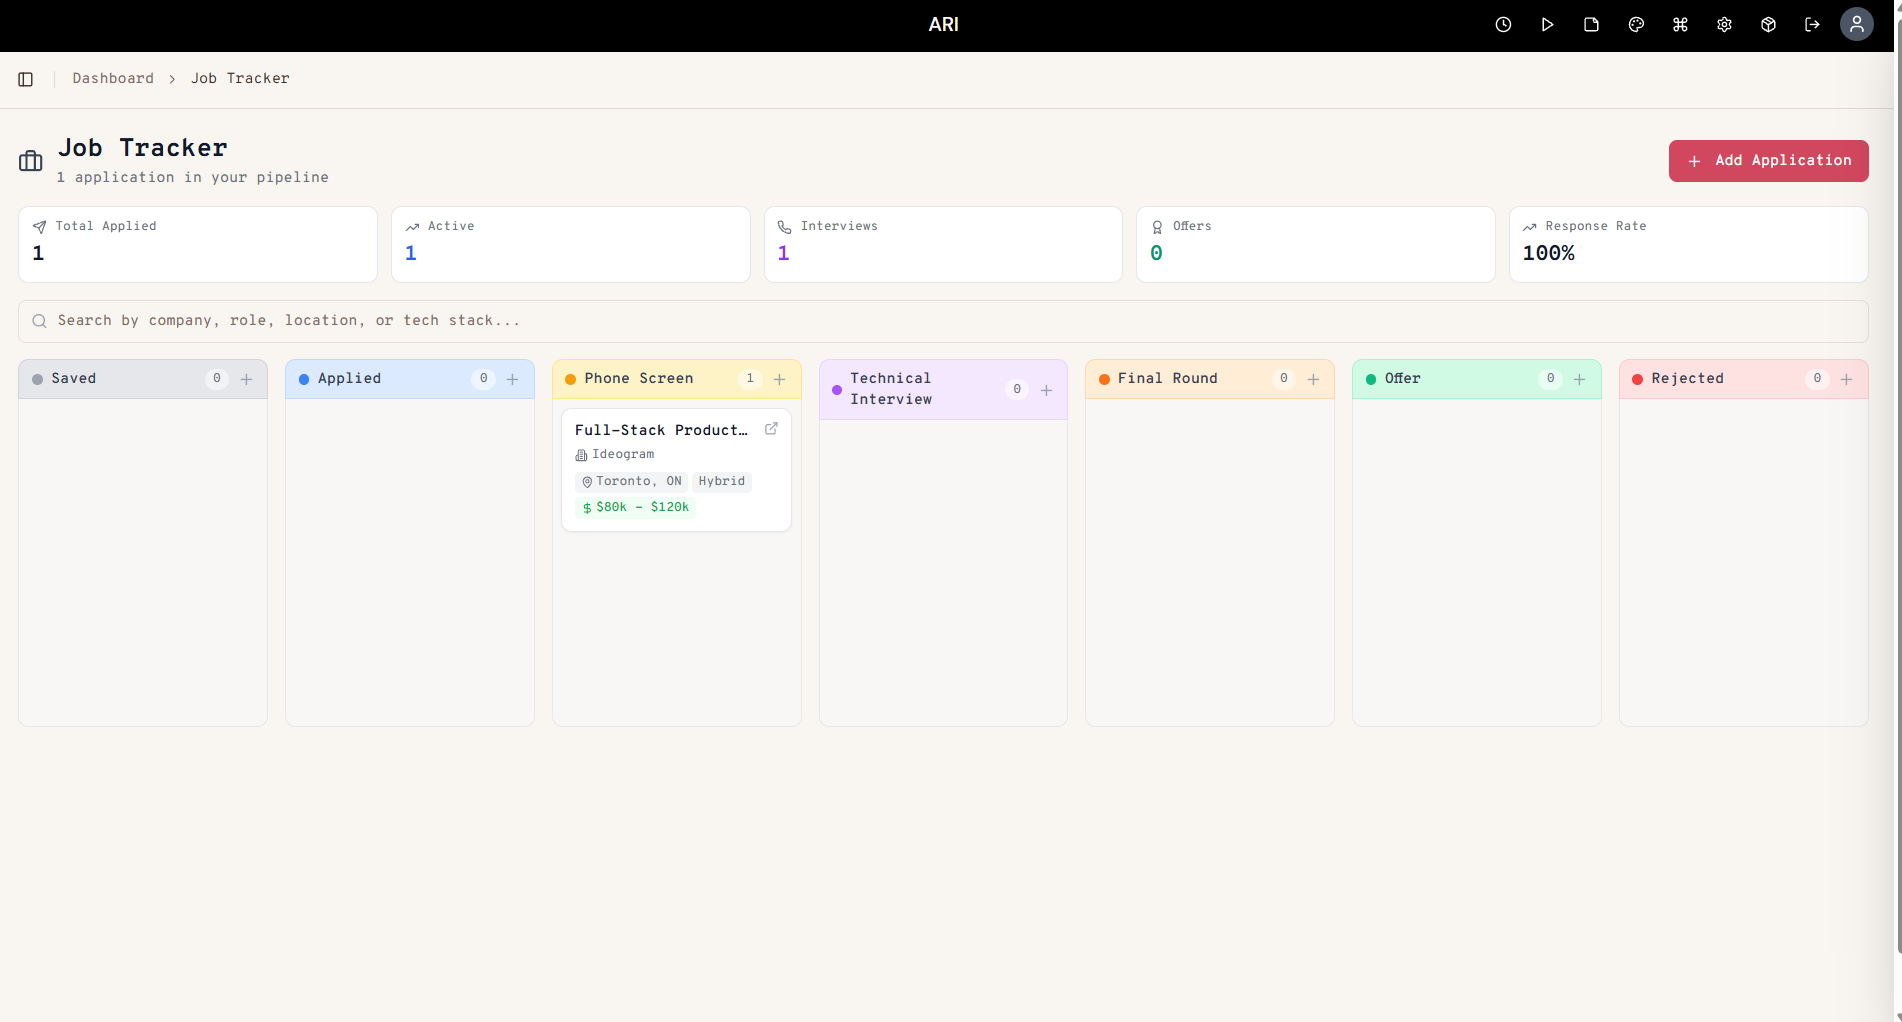
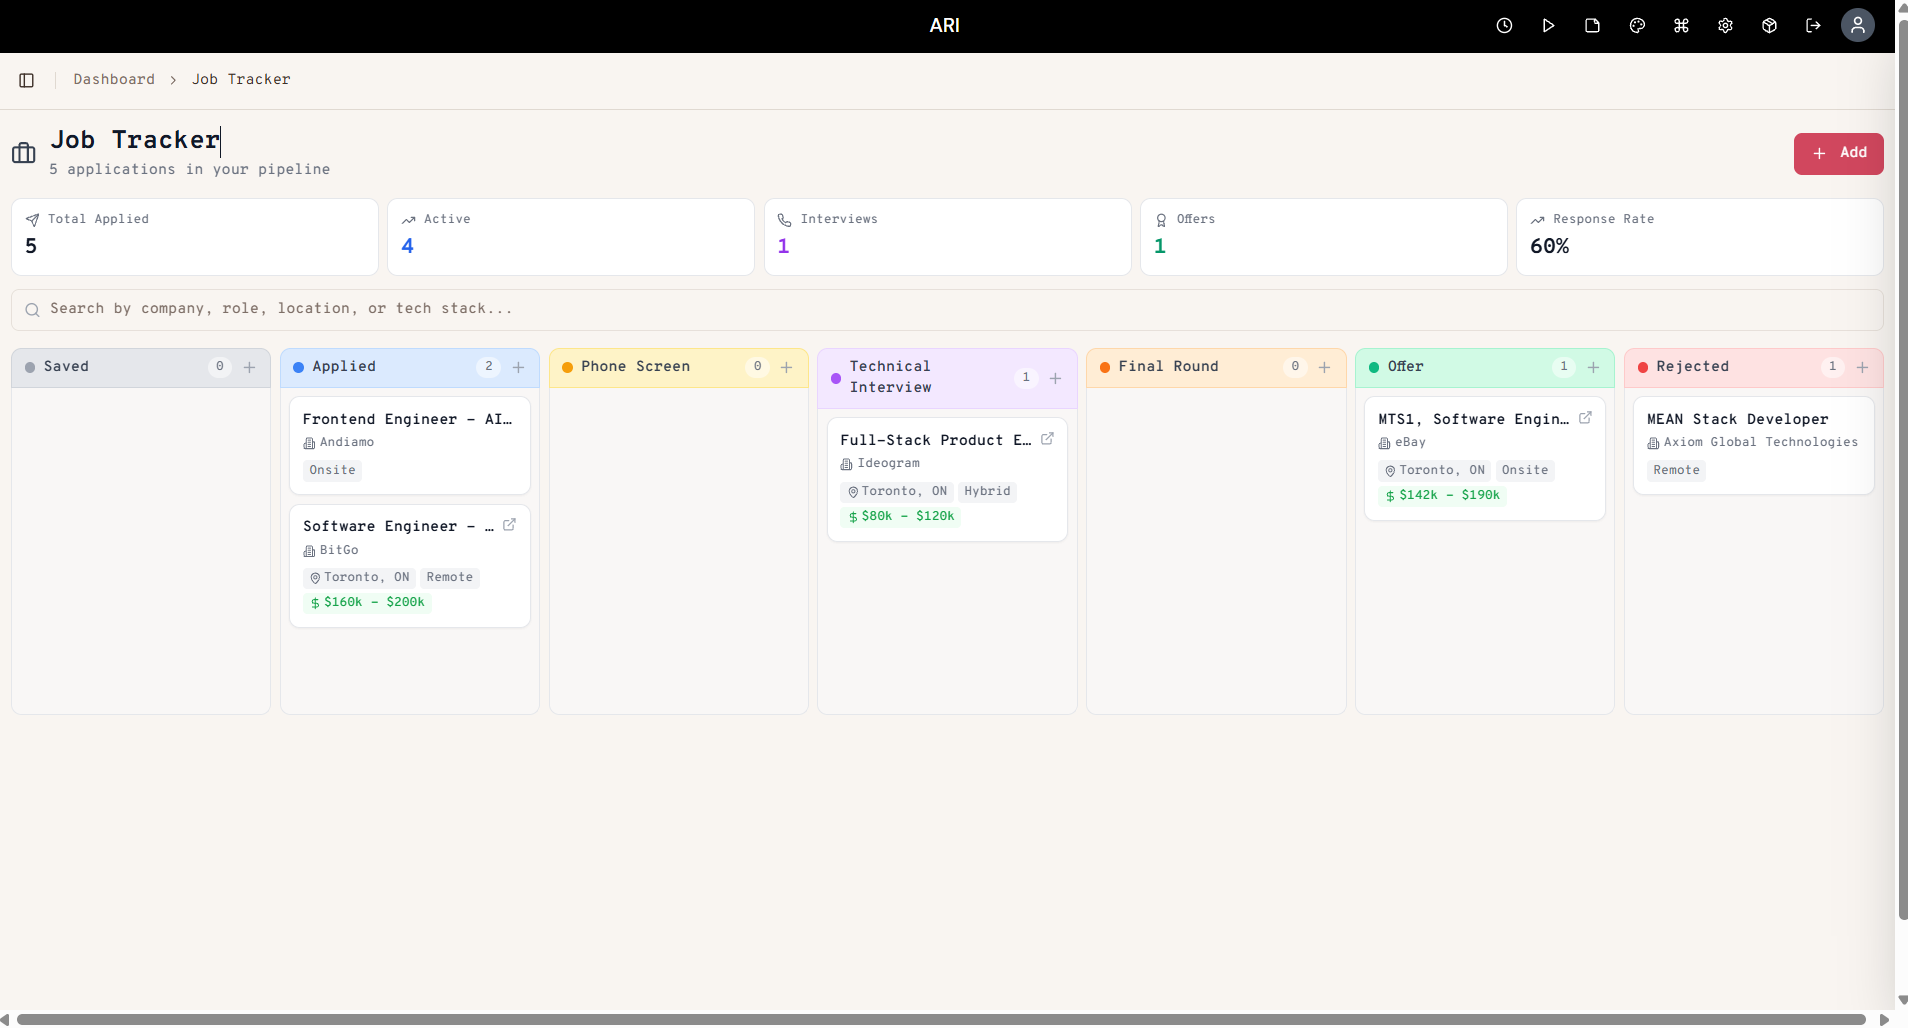
feat: add stats bar, search, colored columns, dashboard widget, demo data, layout fixes

diff --git a/app/page.tsx b/app/page.tsx
@@ -3,7 +3,7 @@
 import { useState, useEffect, useCallback, useMemo } from "react"
 import { useAuth } from "@/components/providers"
 import { useToast } from "@/hooks/use-toast"
-import { Briefcase, Plus, Search, TrendingUp, Send, Phone, Award, X } from "lucide-react"
+import { Briefcase, Plus, Search, TrendingUp, Send, Phone, Award, X, Zap } from "lucide-react"
 import { Button } from "@/components/ui/button"
 import { Input } from "@/components/ui/input"
 import { KanbanBoard } from "../components/kanban-board"
@@ -139,6 +139,41 @@ export default function JobTrackerPage() {
     setModalOpen(true)
   }
 
+  const DEMO_DATA = [
+    { company: 'Google', role: 'Software Engineer L4', status: 'technical_interview', salary_min: 150000, salary_max: 220000, location: 'Mountain View, CA', work_mode: 'hybrid', tech_stack: ['Go', 'Python', 'Kubernetes'], url: 'https://careers.google.com', contact_person: 'Sarah Chen (recruiter)', date_applied: '2026-05-10', notes: 'Passed phone screen. System design round next week.' },
+    { company: 'Shopify', role: 'Senior Frontend Developer', status: 'phone_screen', salary_min: 130000, salary_max: 170000, location: 'Toronto, ON', work_mode: 'remote', tech_stack: ['React', 'TypeScript', 'GraphQL'], url: 'https://shopify.com/careers', contact_person: 'Mike Ross (hiring manager)', date_applied: '2026-05-15', notes: 'Referral from a friend. Phone screen scheduled for Friday.' },
+    { company: 'Stripe', role: 'Full-Stack Engineer', status: 'applied', salary_min: 160000, salary_max: 200000, location: 'San Francisco, CA', work_mode: 'hybrid', tech_stack: ['Ruby', 'React', 'PostgreSQL'], url: 'https://stripe.com/jobs', date_applied: '2026-05-20' },
+    { company: 'Vercel', role: 'Software Engineer', status: 'offer', salary_min: 140000, salary_max: 180000, location: 'Remote', work_mode: 'remote', tech_stack: ['Next.js', 'TypeScript', 'Node.js'], contact_person: 'Lisa Park (recruiter)', date_applied: '2026-04-28', notes: 'Offer received! $165k base + equity. Decision deadline June 5.' },
+    { company: 'Netflix', role: 'UI Engineer', status: 'final_round', salary_min: 180000, salary_max: 250000, location: 'Los Gatos, CA', work_mode: 'onsite', tech_stack: ['React', 'Node.js', 'Java'], url: 'https://jobs.netflix.com', date_applied: '2026-05-05', notes: 'Final round with VP of Engineering on Monday.' },
+    { company: 'Coinbase', role: 'Backend Engineer', status: 'rejected', salary_min: 140000, salary_max: 190000, location: 'Remote', work_mode: 'remote', tech_stack: ['Go', 'PostgreSQL', 'AWS'], date_applied: '2026-05-01', notes: 'Rejected after technical interview. Feedback: needed more distributed systems experience.' },
+    { company: 'Figma', role: 'Product Engineer', status: 'applied', salary_min: 150000, salary_max: 200000, location: 'San Francisco, CA', work_mode: 'hybrid', tech_stack: ['TypeScript', 'C++', 'WebGL'], url: 'https://figma.com/careers', date_applied: '2026-05-22' },
+    { company: 'Datadog', role: 'Software Engineer', status: 'saved', salary_min: 130000, salary_max: 175000, location: 'New York, NY', work_mode: 'hybrid', tech_stack: ['Go', 'Python', 'Kafka'], url: 'https://careers.datadoghq.com' },
+    { company: 'Notion', role: 'Frontend Engineer', status: 'saved', salary_min: 140000, salary_max: 190000, location: 'San Francisco, CA', work_mode: 'hybrid', tech_stack: ['React', 'TypeScript', 'Rust'], url: 'https://notion.so/careers' },
+    { company: 'Wealthsimple', role: 'Full-Stack Developer', status: 'phone_screen', salary_min: 120000, salary_max: 155000, location: 'Toronto, ON', work_mode: 'remote', tech_stack: ['Ruby on Rails', 'React', 'PostgreSQL'], contact_person: 'James Liu (talent)', date_applied: '2026-05-18', notes: 'Great culture fit. Phone screen went well, waiting for next steps.' },
+  ]
+
+  const handleLoadDemoData = async () => {
+    if (applications.length > 0) {
+      const confirmed = window.confirm('This will add demo data alongside your existing applications. Continue?')
+      if (!confirmed) return
+    }
+
+    let added = 0
+    for (const app of DEMO_DATA) {
+      try {
+        const res = await fetch(API_BASE, {
+          method: "POST",
+          headers: { "Content-Type": "application/json" },
+          body: JSON.stringify({ application: app }),
+        })
+        if (res.ok) added++
+      } catch {}
+    }
+
+    await fetchApplications()
+    toast({ title: "Demo data loaded", description: `Added ${added} sample applications` })
+  }
+
   if (loading) {
     return (
       <div className="flex items-center justify-center h-64">
@@ -148,9 +183,9 @@ export default function JobTrackerPage() {
   }
 
   return (
-    <div className="flex flex-col h-full p-6">
+    <div className="flex flex-col h-full p-4 overflow-hidden">
       {/* Header */}
-      <div className="flex items-center justify-between mb-4">
+      <div className="flex flex-wrap items-center justify-between gap-3 mb-4">
         <div className="flex items-center gap-3">
           <Briefcase className="w-6 h-6 text-gray-700 dark:text-gray-300" />
           <div>
@@ -160,13 +195,20 @@ export default function JobTrackerPage() {
             </p>
           </div>
         </div>
-        <Button onClick={() => handleAddClick('saved')}>
-          <Plus className="w-4 h-4 mr-1" /> Add Application
-        </Button>
+        <div className="flex gap-2 shrink-0">
+          {applications.length === 0 && (
+            <Button variant="outline" onClick={handleLoadDemoData}>
+              <Zap className="w-4 h-4 mr-1" /> Load Demo Data
+            </Button>
+          )}
+          <Button onClick={() => handleAddClick('saved')}>
+            <Plus className="w-4 h-4 mr-1" /> Add
+          </Button>
+        </div>
       </div>
 
       {/* Stats Bar */}
-      <div className="grid grid-cols-2 md:grid-cols-5 gap-3 mb-4">
+      <div className="grid grid-cols-2 md:grid-cols-5 gap-2 mb-3">
         <div className="bg-white dark:bg-gray-900 border border-gray-200 dark:border-gray-700 rounded-lg p-3">
           <div className="flex items-center gap-2 text-xs text-gray-500 dark:text-gray-400 mb-1">
             <Send className="w-3.5 h-3.5" />

diff --git a/components/kanban-board.tsx b/components/kanban-board.tsx
@@ -29,7 +29,7 @@ function KanbanColumn({ status, applications, onCardClick, onAddClick }: KanbanC
   const { setNodeRef, isOver } = useDroppable({ id: status })
 
   return (
-    <div className="flex flex-col min-w-[260px] w-[260px]">
+    <div className="flex flex-col flex-1 min-w-0">
       <div className={`rounded-t-lg px-3 py-2 border ${STATUS_HEADER_COLORS[status]}`}>
         <div className="flex items-center justify-between">
           <div className="flex items-center gap-2">
@@ -120,7 +120,7 @@ export function KanbanBoard({ applications, onStatusChange, onCardClick, onAddCl
       onDragStart={handleDragStart}
       onDragEnd={handleDragEnd}
     >
-      <div className="flex gap-4 overflow-x-auto pb-4 h-full">
+      <div className="flex gap-2 pb-4 h-full min-w-0 w-full">
         {JOB_STATUSES.map((status) => (
           <KanbanColumn
             key={status}